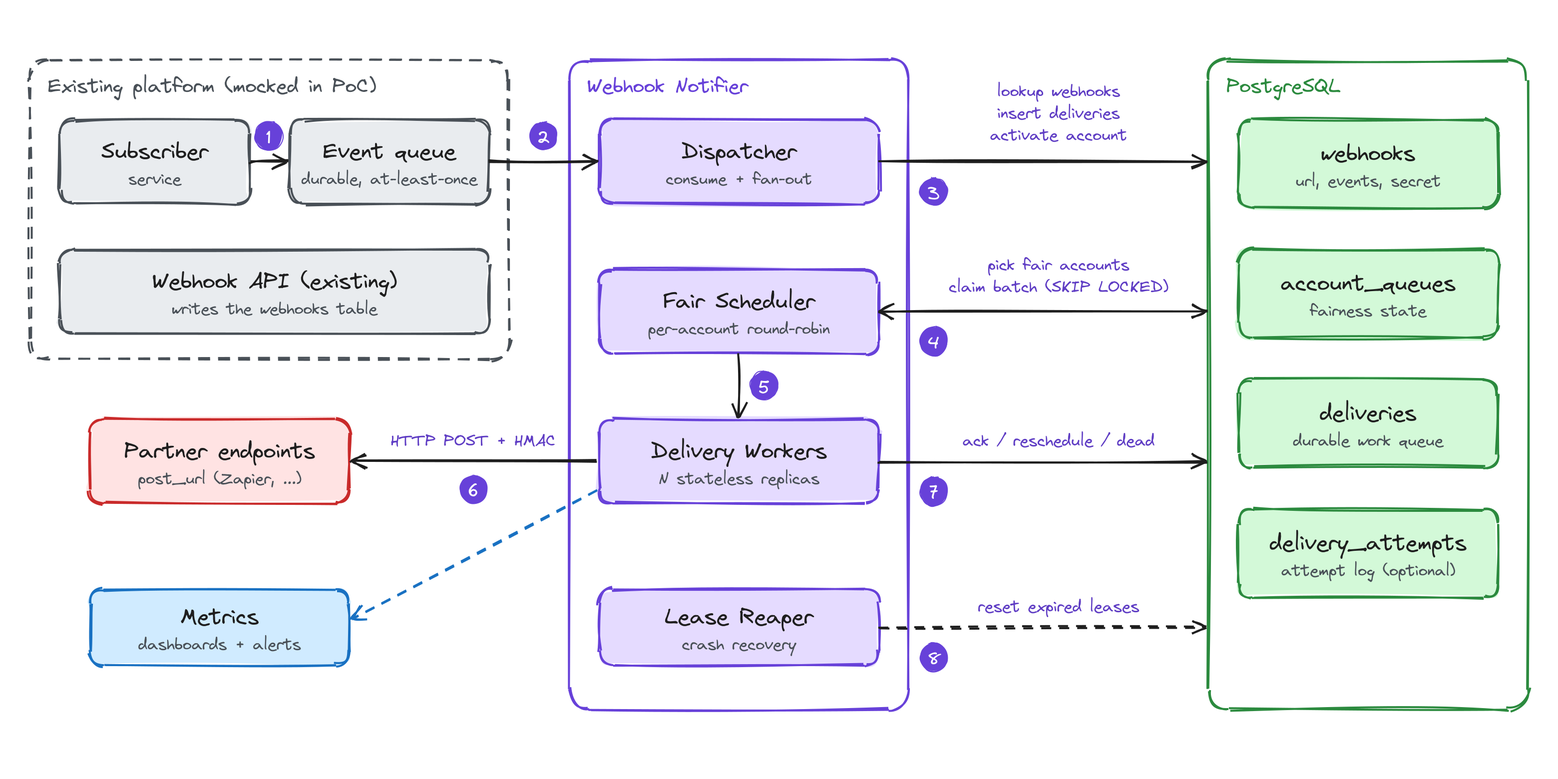
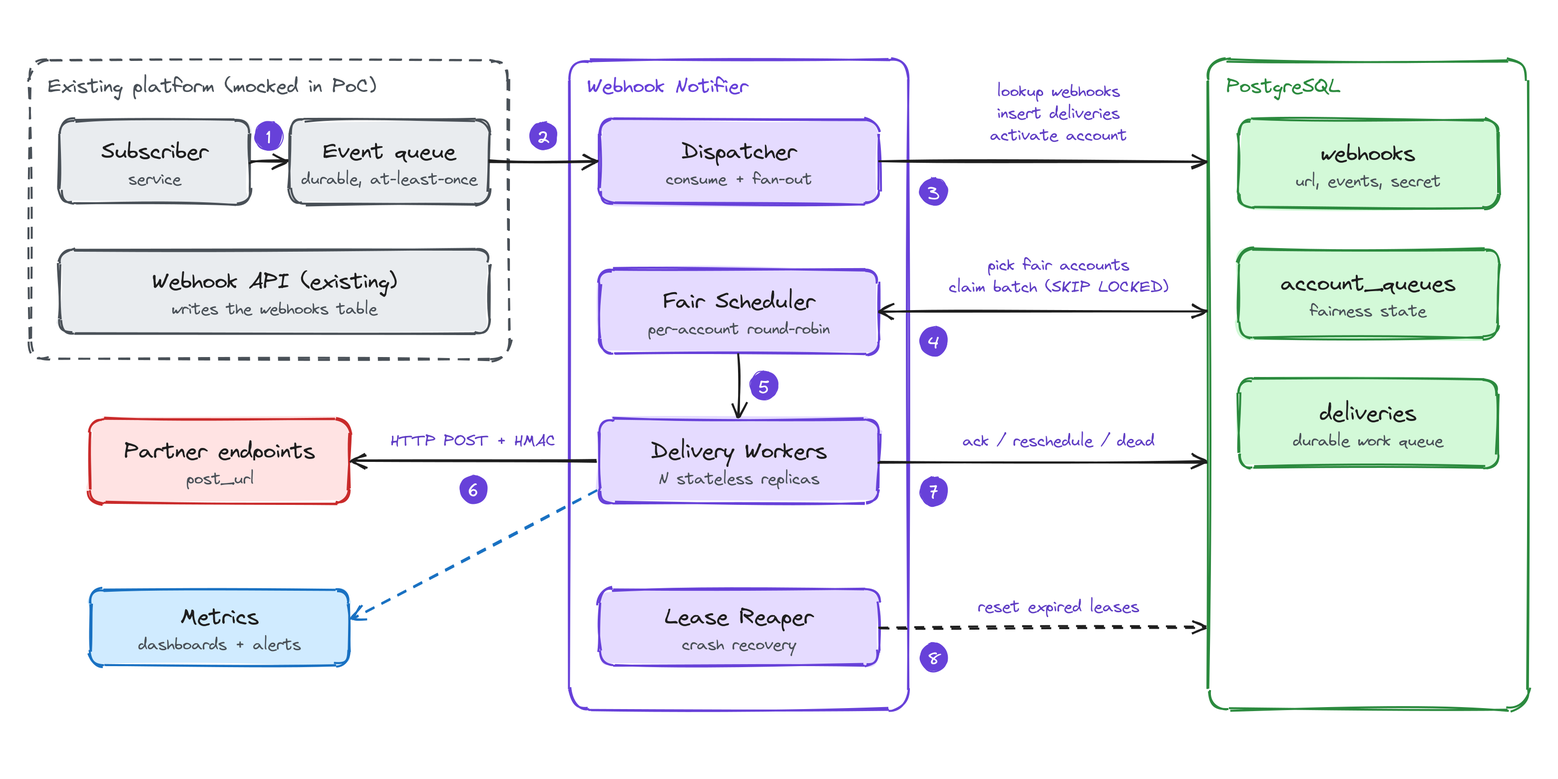
docs: add benchmark results and diagrams
Add the measured benchmark results, the full data model (input queue,
input dead letters, dead-letter archive) and the alerting and SLI
details to the design doc, and refresh the component diagram. Lead the
README with the architecture and delivery sequence diagrams.

Changed region(s): [[0.7772, 0.6462, 0.9638, 0.7692], [0.1244, 0.6154, 0.1554, 0.6462]]

diff --git a/docs/design.md b/docs/design.md
@@ -56,9 +56,9 @@ Events in scope: subscriber.created, subscriber.unsubscribed, subscriber.added_t
 
 2.  Scalability: throughput grows by adding stateless worker replicas.
 
-3.  Fairness: a small account's wait does not depend on other accounts' backlog; a whale still uses all spare capacity.
+3.  Fairness: a small account's wait does not depend on other accounts' backlog; a whale uses the capacity small accounts leave free (in the benchmark it finished about 18% later than with a shared queue, because only one replica at a time can claim an account).
 
-4.  Latency: event to first attempt P99 \< 5s for small and medium accounts, even during a whale burst, and P50 \< 1s under normal load. Partner response time is excluded, and a whale in its own burst is measured by throughput instead.
+4.  Latency: event to first attempt P99 \< 5s for small and medium accounts, even during a whale burst, and P50 \< 1s under normal load. Partner response time is excluded, and a whale in its own burst is measured by throughput instead. Measured in the PoC: 4.2s p99 for small accounts during a 50k-event whale burst; at the full 1M burst the first-in-first-out input queue, not the scheduler, becomes the limit (bottlenecks.md, item 7).
 
 5.  Isolation: a slow or broken partner cannot tie up all workers; we never flood a partner and respect Retry-After.
 
@@ -81,9 +81,9 @@ Events in scope: subscriber.created, subscriber.unsubscribed, subscriber.added_t
 
 1.  Concurrency: with 2,000 deliveries/s (1,000 events/s × 1.5 webhooks, plus headroom) and a partner p50 of 200ms, Little's law gives about 400 requests in flight. If partners slow down to 2s, that becomes 4,000. This is why each endpoint gets its own concurrency limit.
 
-2.  Database: about 3 row writes per delivery, so ~6,000 writes/s at peak. Fine for one PostgreSQL primary with batched claims and acks.
+2.  Database: about 3 row writes per delivery, so ~6,000 writes/s at peak. Fine for one PostgreSQL primary: claims are batched (one pass leases many deliveries); acks are one statement per delivery in the PoC, and batching them is the next step if writes become the limit.
 
-3.  Storage: at ~10% of peak on average, ~13M deliveries/day (15 to 20 GB with indexes), kept in daily partitions.
+3.  Storage: assuming average traffic is ~10% of the peak rate (~150 of the 1,500 deliveries/s), that is ~13M deliveries/day. At ~1.2 to 1.5 KB per delivery (row plus indexes), that is 15 to 20 GB a day, kept in daily partitions.
 
 4.  Cost of a whale without fairness: 1M events at 1,000/s is roughly 17 minutes of backlog. If all accounts share one queue without per-account isolation, small accounts end up stuck in that backlog, whatever order the queue uses.
 
@@ -134,8 +134,11 @@ Events in scope: subscriber.created, subscriber.unsubscribed, subscriber.added_t
 | **Table**      | **Columns**                                                                                                                                     | **Primary key**  | **Notes**                                                                                                         |
 |----------------|-------------------------------------------------------------------------------------------------------------------------------------------------|------------------|-------------------------------------------------------------------------------------------------------------------|
 | webhooks       | id, account_id, post_url, events text\[\], secret, status                                                                                       | id               | Owned by the existing API; read-only for us.                                                                      |
-| deliveries     | id, event_time, account_id, webhook_id, event_id, event_name, payload, status, attempts, next_attempt_at, lease_until, last_error, delivered_at | (id, event_time) | Daily partitions on event_time. id is a deterministic UUID of (event_id, webhook_id): dedup key and X-Webhook-Id. |
+| deliveries     | id, event_time, account_id, webhook_id, event_id, event_name, payload, status, attempts, next_attempt_at, lease_until, last_error, delivered_at, created_at, trace_context, replayed_at | (id, event_time) | Daily partitions on event_time. id is a deterministic UUID of (event_id, webhook_id): dedup key and X-Webhook-Id. |
 | account_queues | account_id, active, last_served_at, next_due_at                                                                                                 | account_id       | Fairness state, one row per account.                                                                              |
+| events_queue | id, name, account_id, event_time, payload, trace_context, enqueued_at, visible_at, receive_count | id | Mock of the platform's event queue: a received event stays invisible until visible_at; ack = delete. |
+| events_dead_letters | id, name, account_id, event_time, payload, trace_context, receive_count, reason, dead_at | id | Input dead-letter queue: malformed events, or events received 5 times without an ack. |
+| deliveries_dead_archive | same columns as deliveries | (id, event_time) | Dead rows of dropped partitions, kept 30 days and replayable. |
 
 | **Index**                                                       | **Used by**                       |
 |-----------------------------------------------------------------|-----------------------------------|
@@ -144,6 +147,10 @@ Events in scope: subscriber.created, subscriber.unsubscribed, subscriber.added_t
 | deliveries (lease_until) WHERE status = in_flight               | Lease Reaper                      |
 | deliveries (account_id, event_time) WHERE status = dead         | Dead-letter inspection and replay |
 | account_queues (last_served_at) WHERE active                    | Scheduler account pick            |
+| deliveries (next_attempt_at) WHERE status = pending | Shared-queue claim (benchmark baseline only) |
+| events_queue (visible_at), events_queue (enqueued_at) | Event receive; input queue age gauge |
+| events_dead_letters (dead_at) | Input dead-letter age gauge |
+| deliveries_dead_archive (account_id, event_time) | Dead-letter inspection and replay after retention |
 
 - Partial indexes only hold pending, in-flight or dead rows, so they stay small however large the table grows.
 
@@ -179,7 +186,7 @@ Events in scope: subscriber.created, subscriber.unsubscribed, subscriber.added_t
 
 Round-robin with a quantum. Active accounts form a virtual ring ordered by when they were last served. Each turn the scheduler picks up to K accounts from the front of the ring (e.g. 50), takes at most Q due deliveries from each (the quantum, e.g. 10), leases them to workers, and moves those accounts to the back. Accounts with no work left leave the ring.
 
-A whale with a million pending deliveries gets the same share per round as an account with three, so its backlog only affects how many rounds it needs. When nobody else has work, the whale gets the full capacity. To make that true, the quantum is a floor, not a cap, when every due account fits in one pass: an account may then take up to the free slots minus the other picked accounts, and the interleaved ordering still gives every other account its due work first. When more accounts wait than fit in a pass, the quantum holds. (The first benchmark run showed a strict quantum left a lone whale using a fraction of the workers: 51.7s vs 34.3s with a shared queue.) One pass of the claim loop is a single short transaction:
+A whale with a million pending deliveries gets the same share per round as an account with three, so its backlog only affects how many rounds it needs. When nobody else has work, the whale gets the full capacity. To make that true, the quantum is a floor, not a cap, when every due account fits in one pass: an account may then take up to the free slots minus the other picked accounts, and the interleaved ordering still gives every other account its due work first. When more accounts wait than fit in a pass, the quantum holds. (The first benchmark run showed a strict quantum left a lone whale using a fraction of the workers: 51.7s vs 34.3s with a shared queue. With the floor it is 48.9s vs 41.5s; the remaining gap comes from only one replica at a time holding the whale's account row.) One pass of the claim loop is a single short transaction:
 
 > **WITH** picked **AS** (
 >
@@ -299,7 +306,7 @@ The approach: measure what users feel, set SLOs on it, alert on how fast the err
 |------------|---------------------------------------------------------------------------------------------------------------------------------------------------------------------------|
 | Latency    | Time from event to first attempt, by account tier. Partner HTTP duration, with successful and failed requests measured separately so timeouts do not distort the numbers. |
 | Traffic    | Events consumed per second, deliveries attempted per second, number of active accounts.                                                                                   |
-| Errors     | Our own errors (DB errors, failed fan-out, panics) kept apart from partner errors (5xx, timeouts, 4xx). Only our errors count against the reliability SLO.                |
+| Errors     | Our own errors (DB errors, failed fan-out, malformed events) kept apart from partner errors (5xx, timeouts, 4xx). Only our errors count against the reliability SLO.                |
 | Saturation | Worker slots in use, DB connection pool usage, per-endpoint semaphores at their limit, pending backlog and the age of the oldest due delivery.                            |
 
 ### SLIs and SLOs
@@ -308,10 +315,10 @@ Each SLI is a ratio of good events to valid events over a rolling 28-day window.
 
 | **SLI (good / valid)**                                                                                                                     | **SLO**                  |
 |--------------------------------------------------------------------------------------------------------------------------------------------|--------------------------|
-| Freshness, small and medium tiers: deliveries whose first attempt happens within 5s of the event / all deliveries for those tiers          | 99%                      |
-| Freshness, all tiers in normal load: first attempt within 1s / all deliveries                                                              | 50% (the p50 target)     |
-| Reliability: deliveries that succeed, or fail only because of the partner (4xx, endpoint down for the whole retry window) / all deliveries | 99.99%                   |
-| Durability: events consumed that produced their deliveries / events consumed (checked by a periodic reconciliation job)                    | 100%, any miss is a page |
+| Freshness, small tier (the PoC has two tiers, small and large): deliveries whose first attempt happens within 5s of the event / all small-tier deliveries | 99%                      |
+| Freshness, all tiers in normal load: first attempt within 1s / all deliveries (measured by the histogram, not alerted in the PoC)           | 50% (the p50 target)     |
+| Reliability: deliveries that succeed, or fail only because of the partner (4xx, endpoint down for the whole retry window) / all deliveries (not measured in the PoC: it needs failures caused by us counted per delivery) | 99.99%                   |
+| Durability: events consumed that produced their deliveries / events consumed (a periodic reconciliation job would check this; it is not built. In the PoC an event that reaches the input dead-letter queue is a durability miss and pages)                    | 100%, any miss is a page |
 
 Large accounts are expected to queue behind their own bursts, so they are measured by throughput instead of latency: while a whale has a backlog, it should get all capacity that small accounts are not using.
 
@@ -336,9 +343,9 @@ Large accounts are expected to queue behind their own bursts, so they are measur
 | webhook_oldest_due_pending_age_seconds                       | Gauge          | Saturation of the whole pipeline                        |
 | webhook_worker_slots_in_use, db_pool_in_use                  | Gauge          | Saturation of a replica                                 |
 | webhook_endpoint_throttled_total, webhook_circuit_open{host} | Counter, Gauge | Partner health and per-endpoint limits being hit        |
-| Input queue: age of oldest event, events waiting             | Gauge          | Ingest falling behind                                   |
-| Input dead-letter queue: events waiting, age of oldest       | Gauge          | Events the Dispatcher could not fan out after N receives (malformed or failing repeatedly) |
-| webhook_events_consumed_total, webhook_errors_total{component} | Counter      | Ingest rate; our own errors (fanout, claim, reaper, event_source, webhook_lookup, metrics), kept apart from partner errors |
+| webhook_input_events_waiting, webhook_input_oldest_event_age_seconds | Gauge          | Ingest falling behind                                   |
+| webhook_input_dead_letters, webhook_input_dead_letter_oldest_age_seconds | Gauge          | Events the Dispatcher could not fan out after N receives (malformed or failing repeatedly) |
+| webhook_events_consumed_total, webhook_errors_total{component} | Counter      | Ingest rate; our own errors (fanout, claim, reaper, retention, event_source, webhook_lookup, malformed_event, metrics), kept apart from partner errors |
 
 Implementation notes (PoC):
 
@@ -367,17 +374,19 @@ Alerts fire on SLO burn rate rather than fixed thresholds, using a long and a sh
 | 5% in 6 hours     | 6x            | 6h and 30min                 | Page       |
 | 10% in 3 days     | 1x            | 3d and 6h                    | Ticket     |
 
-- Durability misses and a growing input queue age also page, since they can mean lost or stuck events. In the PoC, WebhookInputDeadLetters pages as soon as the input dead-letter queue is not empty (deploy/alerts.yml, runbook: docs/runbook.md#input-dead-letters).
+- Durability misses page: in the PoC, WebhookInputDeadLetters pages as soon as the input dead-letter queue is not empty (deploy/alerts.yml, runbook: docs/runbook.md#input-dead-letters). An alert on a growing input queue age is not written yet; webhook_input_oldest_event_age_seconds is exported for it.
 
-- Errors from a single partner endpoint never page. They open that endpoint's circuit breaker and show up on the dashboard and in a daily report.
+- Errors from a single partner endpoint never page. They open that endpoint's circuit breaker and are visible in webhook_deliveries_total by cause and in webhook_circuit_open{host}. A partner dashboard and a daily report are not built in the PoC.
 
 - Dead letters are tickets, never pages: more than 1% of attempts ending dead over 30m (postponed attempts excluded so a circuit cannot hide them), a dead-letter queue above 10,000, or one that grew by more than 1,000 in an hour. Runbook: docs/runbook.md#dead-letters.
 
 - In the PoC: deploy/alerts.yml holds the dead-letter rules (delivery dead letters as tickets, input dead letters as a page), unit-tested with promtool (`make test-alerts`, part of `make test`) and loaded by the compose Prometheus. The freshness SLO burn-rate alerts above are implemented as recording rules (error ratio over 5m, 30m, 1h, 6h, 3d from the first-attempt histogram, small tier, le="5") and the three multi-window alerts, all promtool-tested, including that a page stops once the short window recovers. Alertmanager routes pages and tickets to separate receivers (no integrations in the PoC) and inhibits an SLO's ticket while its page fires; `make test-alerts` checks the routing with amtool. Not alerted yet: the 1s p50 freshness objective, and the reliability SLO, which needs "failed because of us" counted per delivery.
 
-- Every page links to a short runbook: how to tell our fault from a partner fault, how to check fairness (backlog by tier), how to pause or throttle an account, and how to replay dead deliveries.
+- Every alert links to docs/runbook.md, which covers dead letters, input dead letters and freshness: how to tell our fault from a partner's, how to check fairness by tier, how to find the affected accounts, and how to replay dead deliveries (make replay) or requeue dead events (make requeue-events). Pausing or throttling a single account is not built.
 
 ### Dashboards
+
+Not built in the PoC; these are the intended views. The same signals are available as Prometheus queries on `make up-metrics` (see the README).
 
 - SLO overview: remaining error budget and current burn rate for each SLI.
 
@@ -405,5 +414,14 @@ How the PoC runs them (`make bench`, `BENCH_SCALE=quick|default|full`):
 - Timings are compressed so runs take minutes: lease 3s, HTTP timeout 1s, reaper every 0.5s, backoff from 0.5s doubling to 5s, outage 15s instead of 5 minutes. `full` uses the design's sizes (1M whale events, 10-minute runs) and takes hours.
 - Latency is measured by the partner: from the event time in the payload to the first request (first attempt) or the first 2xx (delivered).
 - The whale-burst scenario raises the per-host limit so the single fake partner host is not the bottleneck: it isolates the scheduler. The outage scenario puts the failing endpoint on its own listener (its own host), since limits and circuits are per host.
+
+Results (`make bench`, default scale, on a laptop; runs vary by about ±20%; the full design sizes, `BENCH_SCALE=full`, take hours and were not run):
+
+| Scenario | Run | Result |
+|---|---|---|
+| Whale burst | 50k whale events + 500 small accounts × 10 events, 2 replicas × 32 workers | Small-account p99, event to first attempt: 34.3s shared queue → 4.2s fair. Whale's last delivery: 41.5s shared, 48.9s fair. |
+| Horizontal scaling | 1,200 events/s offered for 10s, 16 workers per replica, partner latency 50ms | 239 / 443 / 846 deliveries/s with 1 / 2 / 4 replicas |
+| Reliability and isolation | 300 events/s for 20s, 5% partner errors, one endpoint down for 15s | 5,997 / 5,997 delivered, 0 dead; healthy endpoints' first-attempt p99 244ms |
+| Crash safety | 300 events/s for 20s, one of 2 replicas killed after 7s | 5,997 / 5,997 delivered, 0 lost, 3 duplicates |
 
 Bottlenecks and how the design evolves at higher scale are covered in the separate Bottleneck discussion doc.

diff --git a/README.md b/README.md
@@ -5,7 +5,30 @@ Proof of concept for a webhook delivery service. It consumes subscriber events, 
 - Design: [docs/design.md](docs/design.md). Scaling limits: [docs/bottlenecks.md](docs/bottlenecks.md). Operations: [docs/runbook.md](docs/runbook.md).
 - Stack: Go 1.27 and PostgreSQL 16. Dependencies: `pgx/v5`, OpenTelemetry (metrics exported in Prometheus format, traces over OTLP), and the standard library.
 
-## Run it
+## How it works
+
+### Architecture
+
+![Architecture: the dispatcher fans events out into Postgres; replicas claim fairly and deliver to partners](docs/img/component_overview.png)
+
+Every notifier replica is stateless and can run any role; Postgres holds all delivery state. The delivery state machine and the round-robin claim are drawn in [docs/design.md](docs/design.md); Excalidraw sources are in `docs/diagrams/`.
+
+### Delivery sequence
+
+![Sequence: happy path, partner error with retry, and a worker crash recovered by the lease reaper](docs/img/delivery_sequence.png)
+
+A crash after the POST but before the ack means the partner sees the same delivery ID twice (at-least-once); partners can dedupe on `X-Webhook-Id`.
+
+### Steps
+
+1. The **dispatcher** reads events in batches and, in one transaction, inserts one `deliveries` row per subscribed webhook (ID = UUIDv5 of event + webhook, so a redelivered event inserts nothing) and puts the account in the fair ring. Events are acked only after the commit.
+2. Each replica's **claim loop** takes accounts from the front of the ring (least recently served first), takes up to a quantum of due deliveries from each, leases them for 30s and moves those accounts to the back. `FOR UPDATE SKIP LOCKED` lets replicas claim in parallel with no leader. A replica only claims as many deliveries as it has free worker slots.
+3. **Workers** POST with `X-Webhook-Id`, `X-Webhook-Timestamp` and `X-Webhook-Signature` (HMAC-SHA256 of `timestamp.body`), then ack: succeeded; retry with backoff (30s ×3, cap 8h, ±20% jitter, 10 attempts, `Retry-After` honoured); or dead (other 4xx, 3xx, 410 also disables the webhook). Acks are fenced on the attempt number, so a worker whose lease expired cannot overwrite a newer attempt.
+4. The **reaper** returns expired leases (crashed or hung workers) to pending every 10s.
+5. **Dead letters**: deliveries that fail permanently are kept 30 days and replayable (`make replay`, ticket alerts). Events the dispatcher cannot fan out (malformed, or received 5 times without an ack) go to an input dead-letter queue, which pages: their webhooks were never called. See [docs/runbook.md](docs/runbook.md).
+6. **Partner protection**: a per-host concurrency limit and circuit breaker postpone deliveries without using up attempts, and the dialer refuses internal addresses (SSRF) and plain HTTP.
+
+## How to run it
 
 Needs Docker. Go 1.27 is only needed for tests and benchmarks on the host.
 
@@ -36,21 +59,6 @@ make lint        # gofmt + go vet
 
 Each notifier process runs any mix of roles: `notifier --dispatcher --worker --reaper` (compose runs all three on both replicas). Configuration is by environment variable or flag; `notifier -h` lists them with defaults from the design.
 
-## How it works
-
-```
-producer → events_queue → Dispatcher → deliveries (+ account ring) → fair claim → workers → partner
-                          (fan-out, 1 tx)                          (lease)     (sign, POST, ack)
-                                                    Lease Reaper ↺ (expired leases back to pending)
-```
-
-1. The **dispatcher** reads events in batches and, in one transaction, inserts one `deliveries` row per subscribed webhook (ID = UUIDv5 of event + webhook, so a redelivered event inserts nothing) and puts the account in the fair ring. Events are acked only after the commit.
-2. Each replica's **claim loop** takes accounts from the front of the ring (least recently served first), takes up to a quantum of due deliveries from each, leases them for 30s and moves those accounts to the back. `FOR UPDATE SKIP LOCKED` lets replicas claim in parallel with no leader. A replica only claims as many deliveries as it has free worker slots.
-3. **Workers** POST with `X-Webhook-Id`, `X-Webhook-Timestamp` and `X-Webhook-Signature` (HMAC-SHA256 of `timestamp.body`), then ack: succeeded; retry with backoff (30s ×3, cap 8h, ±20% jitter, 10 attempts, `Retry-After` honoured); or dead (other 4xx, 3xx, 410 also disables the webhook). Acks are fenced on the attempt number, so a worker whose lease expired cannot overwrite a newer attempt.
-4. The **reaper** returns expired leases (crashed or hung workers) to pending every 10s.
-5. **Dead letters**: deliveries that fail permanently are kept 30 days and replayable (`make replay`, ticket alerts). Events the dispatcher cannot fan out (malformed, or received 5 times without an ack) go to an input dead-letter queue, which pages: their webhooks were never called. See [docs/runbook.md](docs/runbook.md).
-6. **Partner protection**: a per-host concurrency limit and circuit breaker postpone deliveries without using up attempts, and the dialer refuses internal addresses (SSRF) and plain HTTP.
-
 ## Assumptions
 
 From the brief: about 1,000 events/s at peak, accounts from thousands to millions of subscribers, at-least-once delivery, no ordering, the event source can be mocked. My own assumptions, listed in the design: about 1.5 matching webhooks per event, a whale burst of 1M events within minutes, partner latency p50 200ms / p99 2s with a 10s timeout, a retry window of about 24h over 10 attempts, HMAC-SHA256 signing, deliveries kept 7 days and dead ones 30.
@@ -70,23 +78,3 @@ In the PoC the event source is an `events_queue` table with a visibility timeout
 | **Crash** (one of 2 replicas killed mid-run) | 5,997 / 5,997 delivered, **0 lost**, 3 duplicates (sent but not acked before the crash) |
 
 The full sizes from the design (1M whale events, 10-minute runs) are `BENCH_SCALE=full` and take hours; I have not run them.
-
-## Known limitations
-
-- **Ingest is first-in-first-out.** During a whale burst, small accounts' events wait in the input queue until the whale's earlier events are fanned out. That is most of the 4.2s above, and roughly 50s at a 1M burst, which would break the 5s target. Fairness has to start at ingest (bottlenecks.md, item 7).
-- **The whale is ~18% slower with the fair scheduler** than with a shared queue: only one replica at a time can claim an account, so a lone whale's claims serialise across replicas. The quantum was made work-conserving after the first benchmark showed a 50% gap.
-- Concurrency limits and circuit breakers are **per replica**: with N replicas a partner host can see N × 8 requests at once.
-- Not built yet: the retry budget, batched acks, and alerts for the reliability SLO and the 1s p50 objective (the freshness SLO burn-rate alerts exist). Alertmanager receivers have no integrations, so alerts are only visible in its UI.
-- Benchmarks run replicas in one process with compressed timings; they show behaviour and ratios, not production capacity.
-
-## What I would do next
-
-1. Fair ingest: consume the event queue per account (or partitioned by account), so a burst cannot delay other accounts before fan-out.
-2. Let several replicas serve one busy account (split a whale into sub-queues), closing the remaining whale gap.
-3. Count deliveries that fail because of us, so the reliability SLO can be alerted on like freshness, and connect Alertmanager to real paging and ticketing.
-4. Batched acks to cut write load, and the retry budget.
-5. Run the full-size benchmark on production-like hardware and tune quantum, accounts per tick and pool sizes from the results.
-
-## Time spent
-
-About 16 hours in total; [NOTES.md](NOTES.md) has the time per step and the benchmark history.
